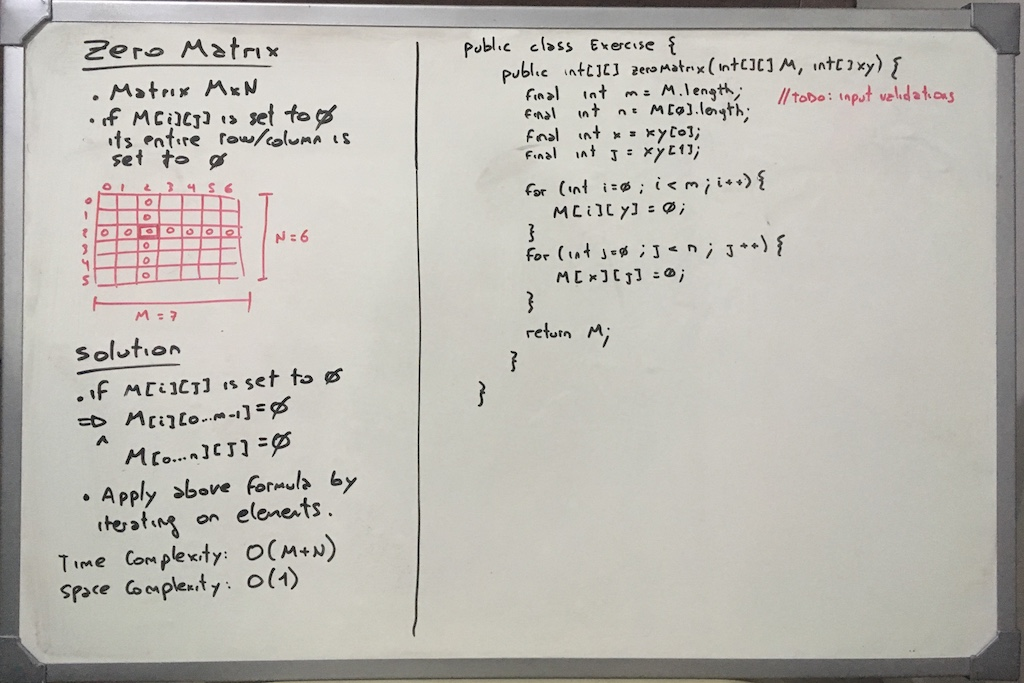
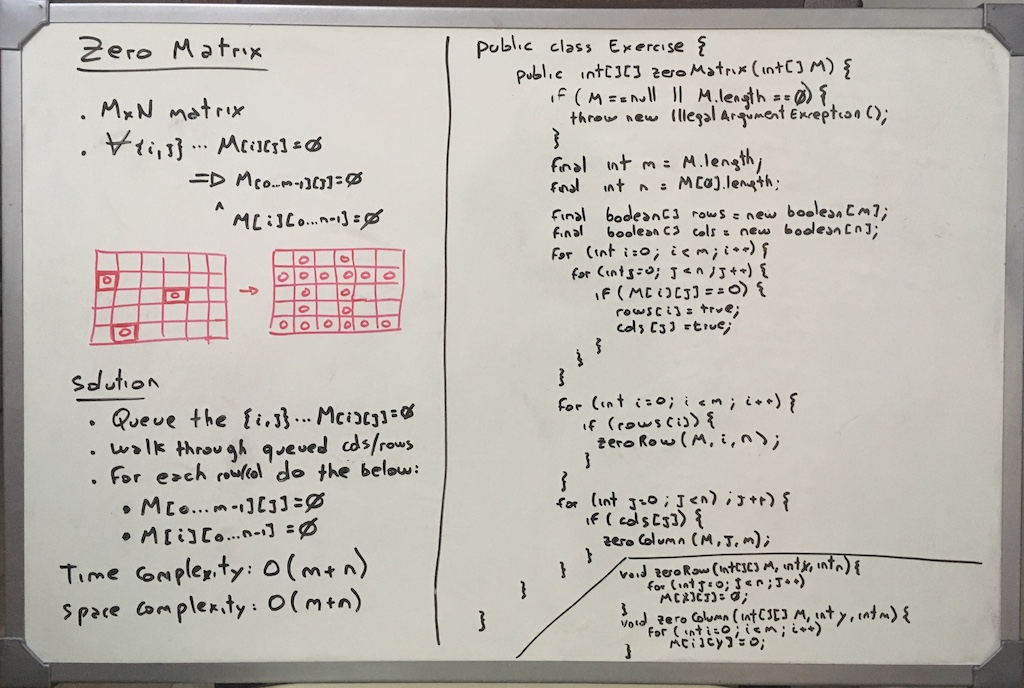
reviewed hints for 'Arrays and Strings' and added some comments. Also I misunderstood question 8 so I completely did it again

diff --git a/src/main/java/com/github/damiox/computerscience/exercises/questions/Question0108Exercise.java b/src/main/java/com/github/damiox/computerscience/exercises/questions/Question0108Exercise.java
@@ -6,50 +6,74 @@ import com.github.damiox.computerscience.Exercise;
  * Zero Matrix: Write an algorithm such that if an element
  * in an MxN matrix is 0, its entire row and column are set to O.
  *
- * Solution: for {x,y} coordinates, we need to set to 0 the
- * following coordinates:
+ * Solution: walk through the Matrix (M) and queue all rows and columns
+ * that need to be zeroed out.
+ * Then walk through all rows and cols and zero the row/col,
+ * we need to set to 0 the following coordinates:
  * a) M[0..m][y] = 0
  * b) M[x][0..n] = 0
  *
  * Time Complexity: O(m + n)
- * Space Complexity: O(1)
+ * Space Complexity: O(m + n)
+ *
+ * Alternative solution: there's a tricky solution that uses space complexity of
+ * O(1) which means to do the following:
+ * a) check if row[0] has any zero value in any column -> have a flag row0=true if any
+ * b) check if col[0] has any zero value in any row -> have a flag col0=true if any
+ * c) walk through the rest of matrix, and if any 0 is found, mark {i,0} and {0,j}
+ * d) walk through row[0] in matrix, and when any 0, then set all row to 0
+ * e) walk through col[0] in matrix, and when any 0, then set all col to 0
+ * f) check if row0 is true -> then zero all the row0 to 0
+ * g) check if col0 is true -> then zero all the col0 to 0
  *
  * @author dnardelli
  */
-public class Question0108Exercise implements Exercise<Question0108Exercise.Params, Integer[][]> {
-
-    public static class Params {
-        public final Integer[][] M;
-        public final int[] xy;
-
-        Params(Integer[][] M, int[] xy) {
-            this.M = M;
-            this.xy = xy;
-        }
-    }
+public class Question0108Exercise implements Exercise<Integer[][], Integer[][]> {
 
     @Override
-    public Integer[][] solve(Params params) {
-        final Integer[][] M = params.M;
-        final int[] xy = params.xy;
-
-        if (M.length == 0) {
+    public Integer[][] solve(Integer[][] M) {
+        if (M == null || M.length == 0) {
             throw new IllegalArgumentException("Invalid Matrix");
         }
 
         final int m = M.length;
         final int n = M[0].length;
-        final int x = xy[0];
-        final int y = xy[1];
+        final boolean[] rows = new boolean[m];
+        final boolean[] cols = new boolean[n];
 
         for (int i = 0 ; i < m ; i++) {
-            M[i][y] = 0;
+            for (int j = 0 ; j < n ; j++) {
+                if (M[i][j] == 0) {
+                    rows[i] = true;
+                    cols[j] = true;
+                }
+            }
+        }
+
+        for (int i = 0 ; i < m ; i++) {
+            if (rows[i]) {
+                this.zeroRow(M, i, n);
+            }
         }
         for (int j = 0 ; j < n ; j++) {
-            M[x][j] = 0;
+            if (cols[j]) {
+                this.zeroColumn(M, j, m);
+            }
         }
 
         return M;
+    }
+
+    private void zeroRow(Integer[][] M, int x, int n) {
+        for (int j = 0 ; j < n ; j++) {
+            M[x][j] = 0;
+        }
+    }
+
+    private void zeroColumn(Integer[][] M, int y, int m) {
+        for (int i = 0 ; i < m ; i++) {
+            M[i][y] = 0;
+        }
     }
 
 }

diff --git a/src/test/java/com/github/damiox/computerscience/exercises/questions/Question0108ExerciseTest.java b/src/test/java/com/github/damiox/computerscience/exercises/questions/Question0108ExerciseTest.java
@@ -7,18 +7,18 @@ public class Question0108ExerciseTest {
 
     @Test
     public void testSolve() {
-        // 1 1 1 1     0 1 1 1
-        // 1 1 1 1 ->  0 0 0 0
-        // 1 1 1 1     0 1 1 1
-        // 1 1 1 1     0 1 1 1
-        // 1 1 1 1     0 1 1 1
-        Assert.assertArrayEquals(new Integer[][] { {0, 1, 1, 1}, {0, 0, 0, 0}, {0, 1, 1, 1}, {0, 1, 1, 1}, {0, 1, 1, 1} }, new Question0108Exercise().solve(new Question0108Exercise.Params(new Integer[][] { {1, 1, 1, 1}, {1, 1, 1, 1}, {1, 1, 1, 1}, {1, 1, 1, 1}, {1, 1, 1, 1} }, new int[] { 1, 0})));
+        // 0 1 1 1     0 0 0 0
+        // 1 0 1 1     0 0 0 0
+        // 1 1 1 1 ->  0 0 1 1
+        // 1 1 1 1     0 0 1 1
+        // 1 1 1 1     0 0 1 1
+        Assert.assertArrayEquals(new Integer[][] { {0, 0, 0, 0}, {0, 0, 0, 0}, {0, 0, 1, 1}, {0, 0, 1, 1}, {0, 0, 1, 1} }, new Question0108Exercise().solve(new Integer[][] { {0, 1, 1, 1}, {1, 0, 1, 1}, {1, 1, 1, 1}, {1, 1, 1, 1}, {1, 1, 1, 1} }));
 
-        // 1 1 1 1     0 0 0 0
-        // 1 1 1 1 ->  1 1 1 0
-        // 1 1 1 1     1 1 1 0
-        // 1 1 1 1     1 1 1 0
-        Assert.assertArrayEquals(new Integer[][] { {0, 0, 0, 0}, {1, 1, 1, 0}, {1, 1, 1, 0}, {1, 1, 1, 0} }, new Question0108Exercise().solve(new Question0108Exercise.Params(new Integer[][] { {1, 1, 1, 1}, {1, 1, 1, 1}, {1, 1, 1, 1}, {1, 1, 1, 1} }, new int[] { 0, 3})));
+        // 1 1 1 1     1 0 0 1
+        // 1 1 0 1 ->  0 0 0 0
+        // 1 0 1 1     0 0 0 0
+        // 1 1 1 1     1 0 0 1
+        Assert.assertArrayEquals(new Integer[][] { {1, 0, 0, 1}, {0, 0, 0, 0}, {0, 0, 0, 0}, {1, 0, 0, 1} }, new Question0108Exercise().solve(new Integer[][] { {1, 1, 1, 1}, {1, 1, 0, 1}, {1, 0, 1, 1}, {1, 1, 1, 1} }));
     }
 
 }

diff --git a/src/main/java/com/github/damiox/computerscience/exercises/questions/Question0104Exercise.java b/src/main/java/com/github/damiox/computerscience/exercises/questions/Question0104Exercise.java
@@ -6,12 +6,14 @@ import com.github.damiox.computerscience.exercises.sorting.SortingExercise;
 
 /**
  * Palindrome Permutation: Given a string, write a function to check
- * if it is a permutation of a palin- drome. A palindrome is a word
+ * if it is a permutation of a palindrome. A palindrome is a word
  * or phrase that is the same forwards and backwards. A permutation
- * is a rearrangement of letters.The palindrome does not need to be
+ * is a rearrangement of letters. The palindrome does not need to be
  * limited to just dictionary words.
  *
- * Solution: We can sort the String and then count the number of chars.
+ * Solution: Palindromes are composed by a prefix and suffix which are
+ * (in reverse) equally.
+ * Then, We can sort the String and then count the number of chars.
  * We know there are some restrictions about palindromes.
  * 1) if chars are found an even number of times, that's fine.
  * 2) if chars are found an odd number of times, that can only happen once.

diff --git a/src/main/java/com/github/damiox/computerscience/exercises/questions/Question0102Exercise.java b/src/main/java/com/github/damiox/computerscience/exercises/questions/Question0102Exercise.java
@@ -13,6 +13,11 @@ import com.github.damiox.computerscience.exercises.sorting.SortingExercise;
  * Time Complexity: O(n log n)
  * Space Complexity: O(1)
  *
+ * Alternative solution: we can use a Hashtable and by doing that we'd
+ * reduce the time complexity to O(n), but we'd need space complexity
+ * of O(n). IMO it's better to have space complexity of O(1) and a
+ * time complexity of O(n log n)
+ *
  * @author dnardelli
  */
 public class Question0102Exercise implements Exercise<Question0102Exercise.Params, Boolean> {

diff --git a/src/main/java/com/github/damiox/computerscience/exercises/questions/Question0101Exercise.java b/src/main/java/com/github/damiox/computerscience/exercises/questions/Question0101Exercise.java
@@ -15,6 +15,11 @@ import com.github.damiox.computerscience.exercises.sorting.SortingExercise;
  * Time Complexity: O(n log n)
  * Space Complexity: O(1)
  *
+ * Alternative solution: we can use a Hashtable and by doing that we'd
+ * reduce the time complexity to O(n), but we'd need space complexity
+ * of O(n). IMO it's better to have space complexity of O(1) and a
+ * time complexity of O(n log n)
+ *
  * @author dnardelli
  */
 public class Question0101Exercise implements Exercise<String, Boolean> {
